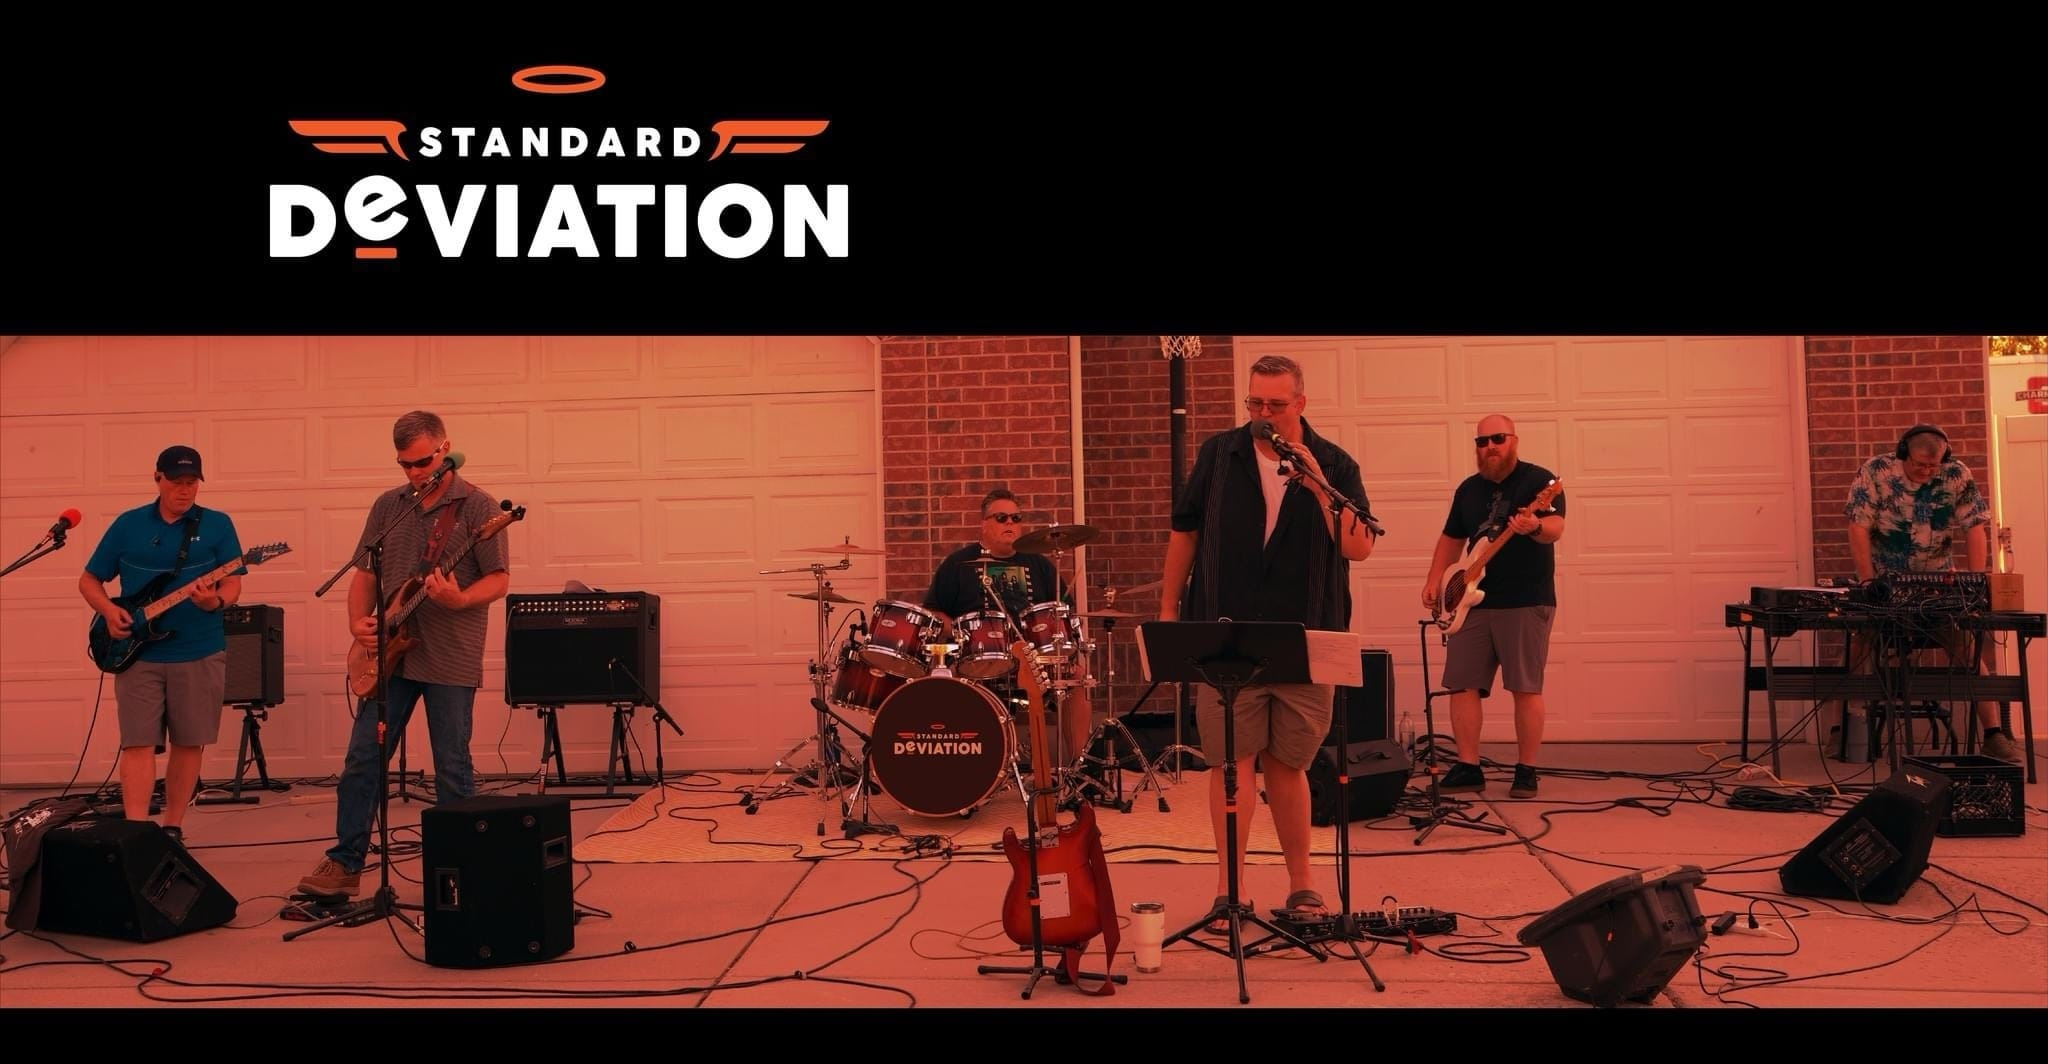
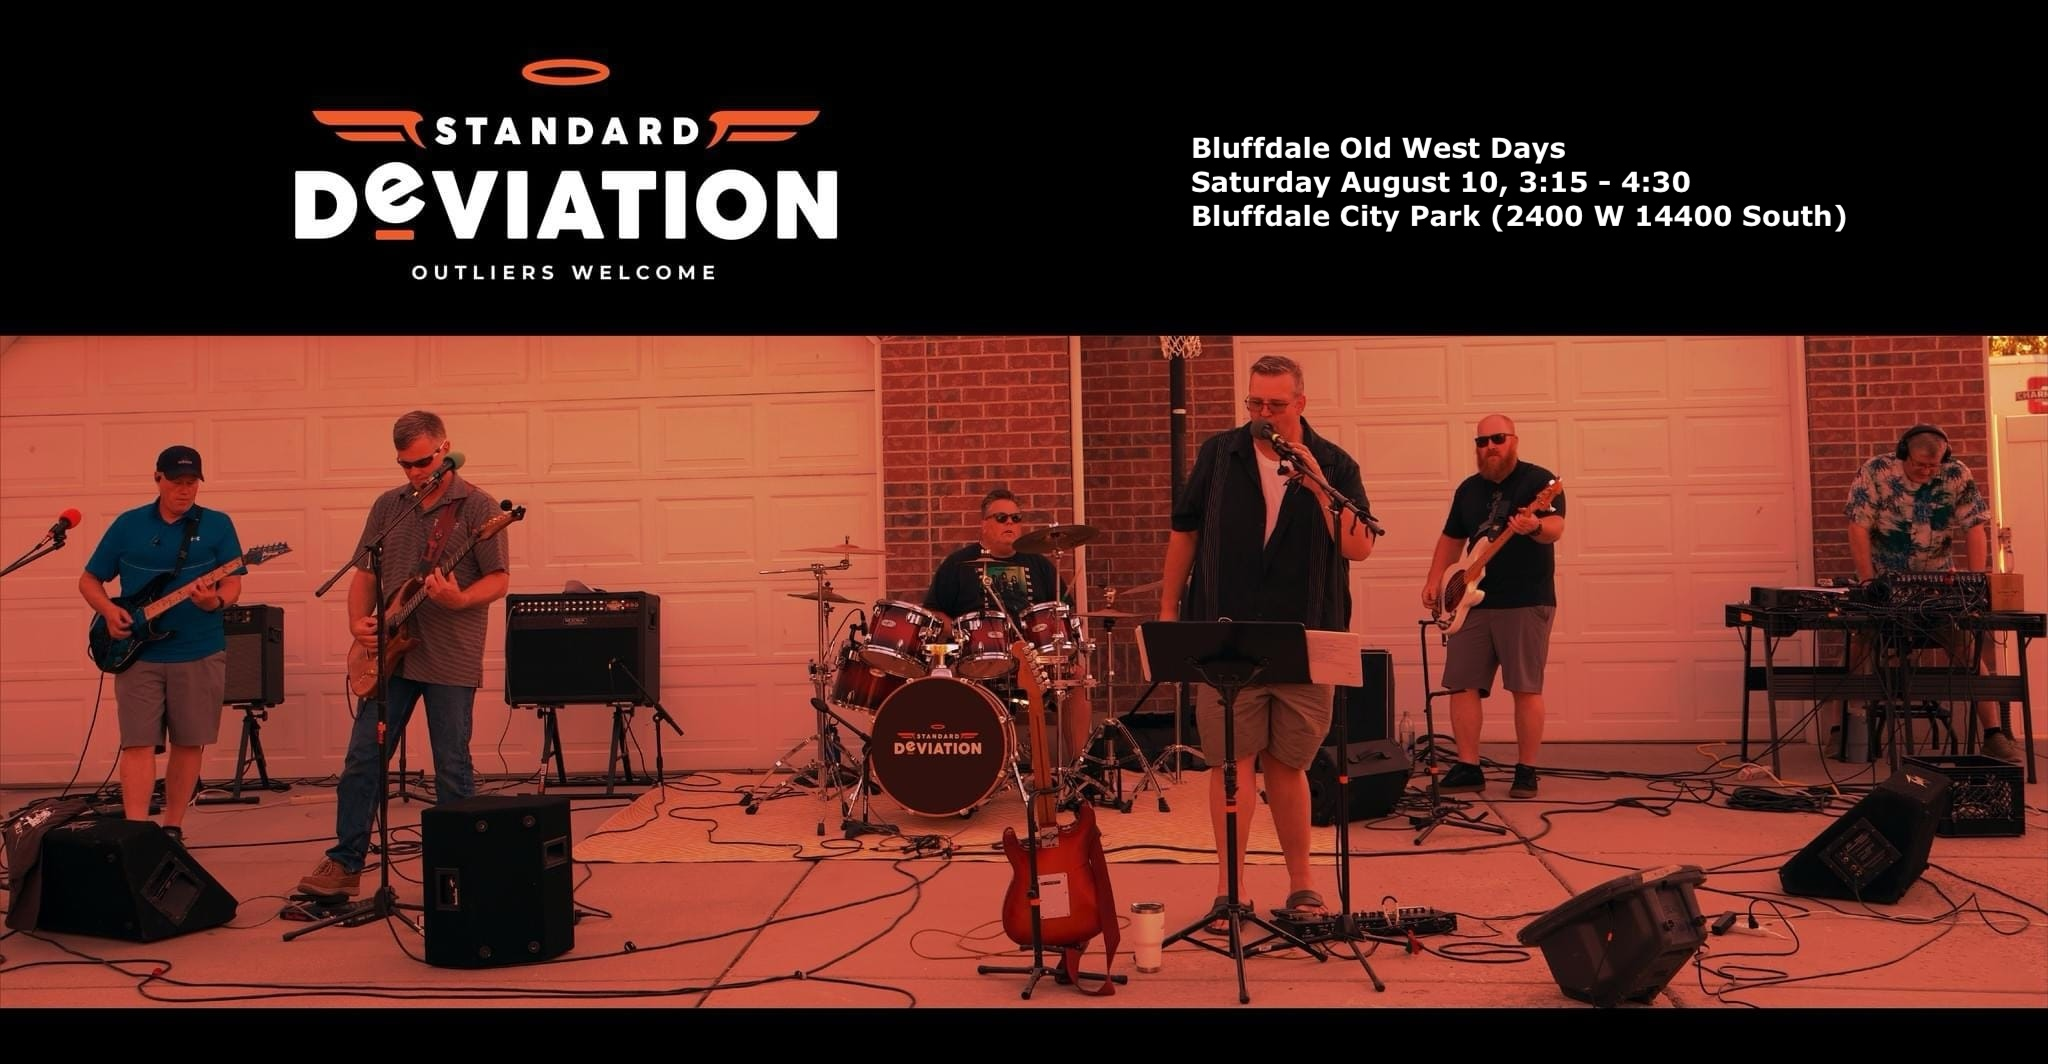
Updates information.

Changed region(s): [[0.125, 0.031, 0.4375, 0.2791], [0.5625, 0.1241, 0.9062, 0.2171]]

diff --git a/about.html b/about.html
@@ -22,12 +22,17 @@
 
   <div data-include="partials/header.html"></div>
 
+  
+
   <main class="container my-5">
+    <div>
+      <h2>OUTLIERS WELCOME</h2>
+    </div>
     <h1>About Us</h1>
     <p>STANDARD DeVIATION formed in 2020 to bring raw, unfiltered rock to audiences everywhere.
        With 3 killer guitars, powerhouse vocals, and a thunderous rhythm section, we aim to shake the stage
        every time.</p>
-       <P>STANDARD DeVIATION has been playing Rock n Roll covers for 5 years at various venues and 
+       <P>STANDARD DeVIATION has been playing Rock n Roll covers for over 15 years at various venues and 
       corporate events.</p>
     <p>Our mission: keep it loud, keep it real and keep you coming back for more.</p>
   </main>
@@ -40,7 +45,7 @@
       <li class="list-group-item">Bryce Hayes – Vocals/Guitar</li>
       <li class="list-group-item">Wade Huntsman – Lead Guitar/Vocals</li>
       <li class="list-group-item">Jon Arndt– Bass</li>
-      <li class="list-group-item">Erik B – Drums</li>
+      <li class="list-group-item">Erik Burton – Drums</li>
       <li class="list-group-item">Cameron Cooper – Sound</li>
     </ul>
   </section>

diff --git a/schedule.html b/schedule.html
@@ -26,11 +26,11 @@
     <div class="table-responsive">
       <table class="table table-striped table-sm">
         <thead>
-          <tr><th>Date</th><th>Venue</th><th>City</th><th>Website</th></tr>
+          <tr><th>Date</th><th>Venue</th><th>City</th><th>Performance Time</th><th>Website</th></tr>
         </thead>
         <tbody>
-          <tr><td>Aug 7, 2025</td><td>Home Turf Pop-Up</td><td>Riverton, UT</td><td></td></tr>
-          <tr><td>Aug 9, 2025</td><td>Bluffdale Old Town Days</td><td>Bluffdale, UT</td><td><a href="https://www.bluffdale.gov/620/Concert-and-Fireworks"
+          <tr><td>Aug 7, 2025</td><td>Home Turf Pop-Up</td><td>Riverton, UT</td><td>TBD</td><td></td></tr>
+          <tr><td>Aug 9, 2025</td><td>Bluffdale Old Town Days</td><td>Bluffdale, UT</td><td>Main Stage<br>3:15 pm - 4:30 pm</td><td><a href="https://www.bluffdale.gov/620/Concert-and-Fireworks"
             target="_blank" rel="noopener">
             Concert &amp; Fireworks
           </a></td></tr>

diff --git a/contact.html b/contact.html
@@ -27,7 +27,7 @@
     <p>Booking &amp; press inquiries:</p>
     <address>
       <strong>Email:</strong> <a href="mailto:cboshdave@gmail.com">
-      bcboshdave@gmail.com</a><br>
+      cboshdave@gmail.com</a><br>
       <strong>Follow us on social media for updates!</strong>
     </address>
   </main>
